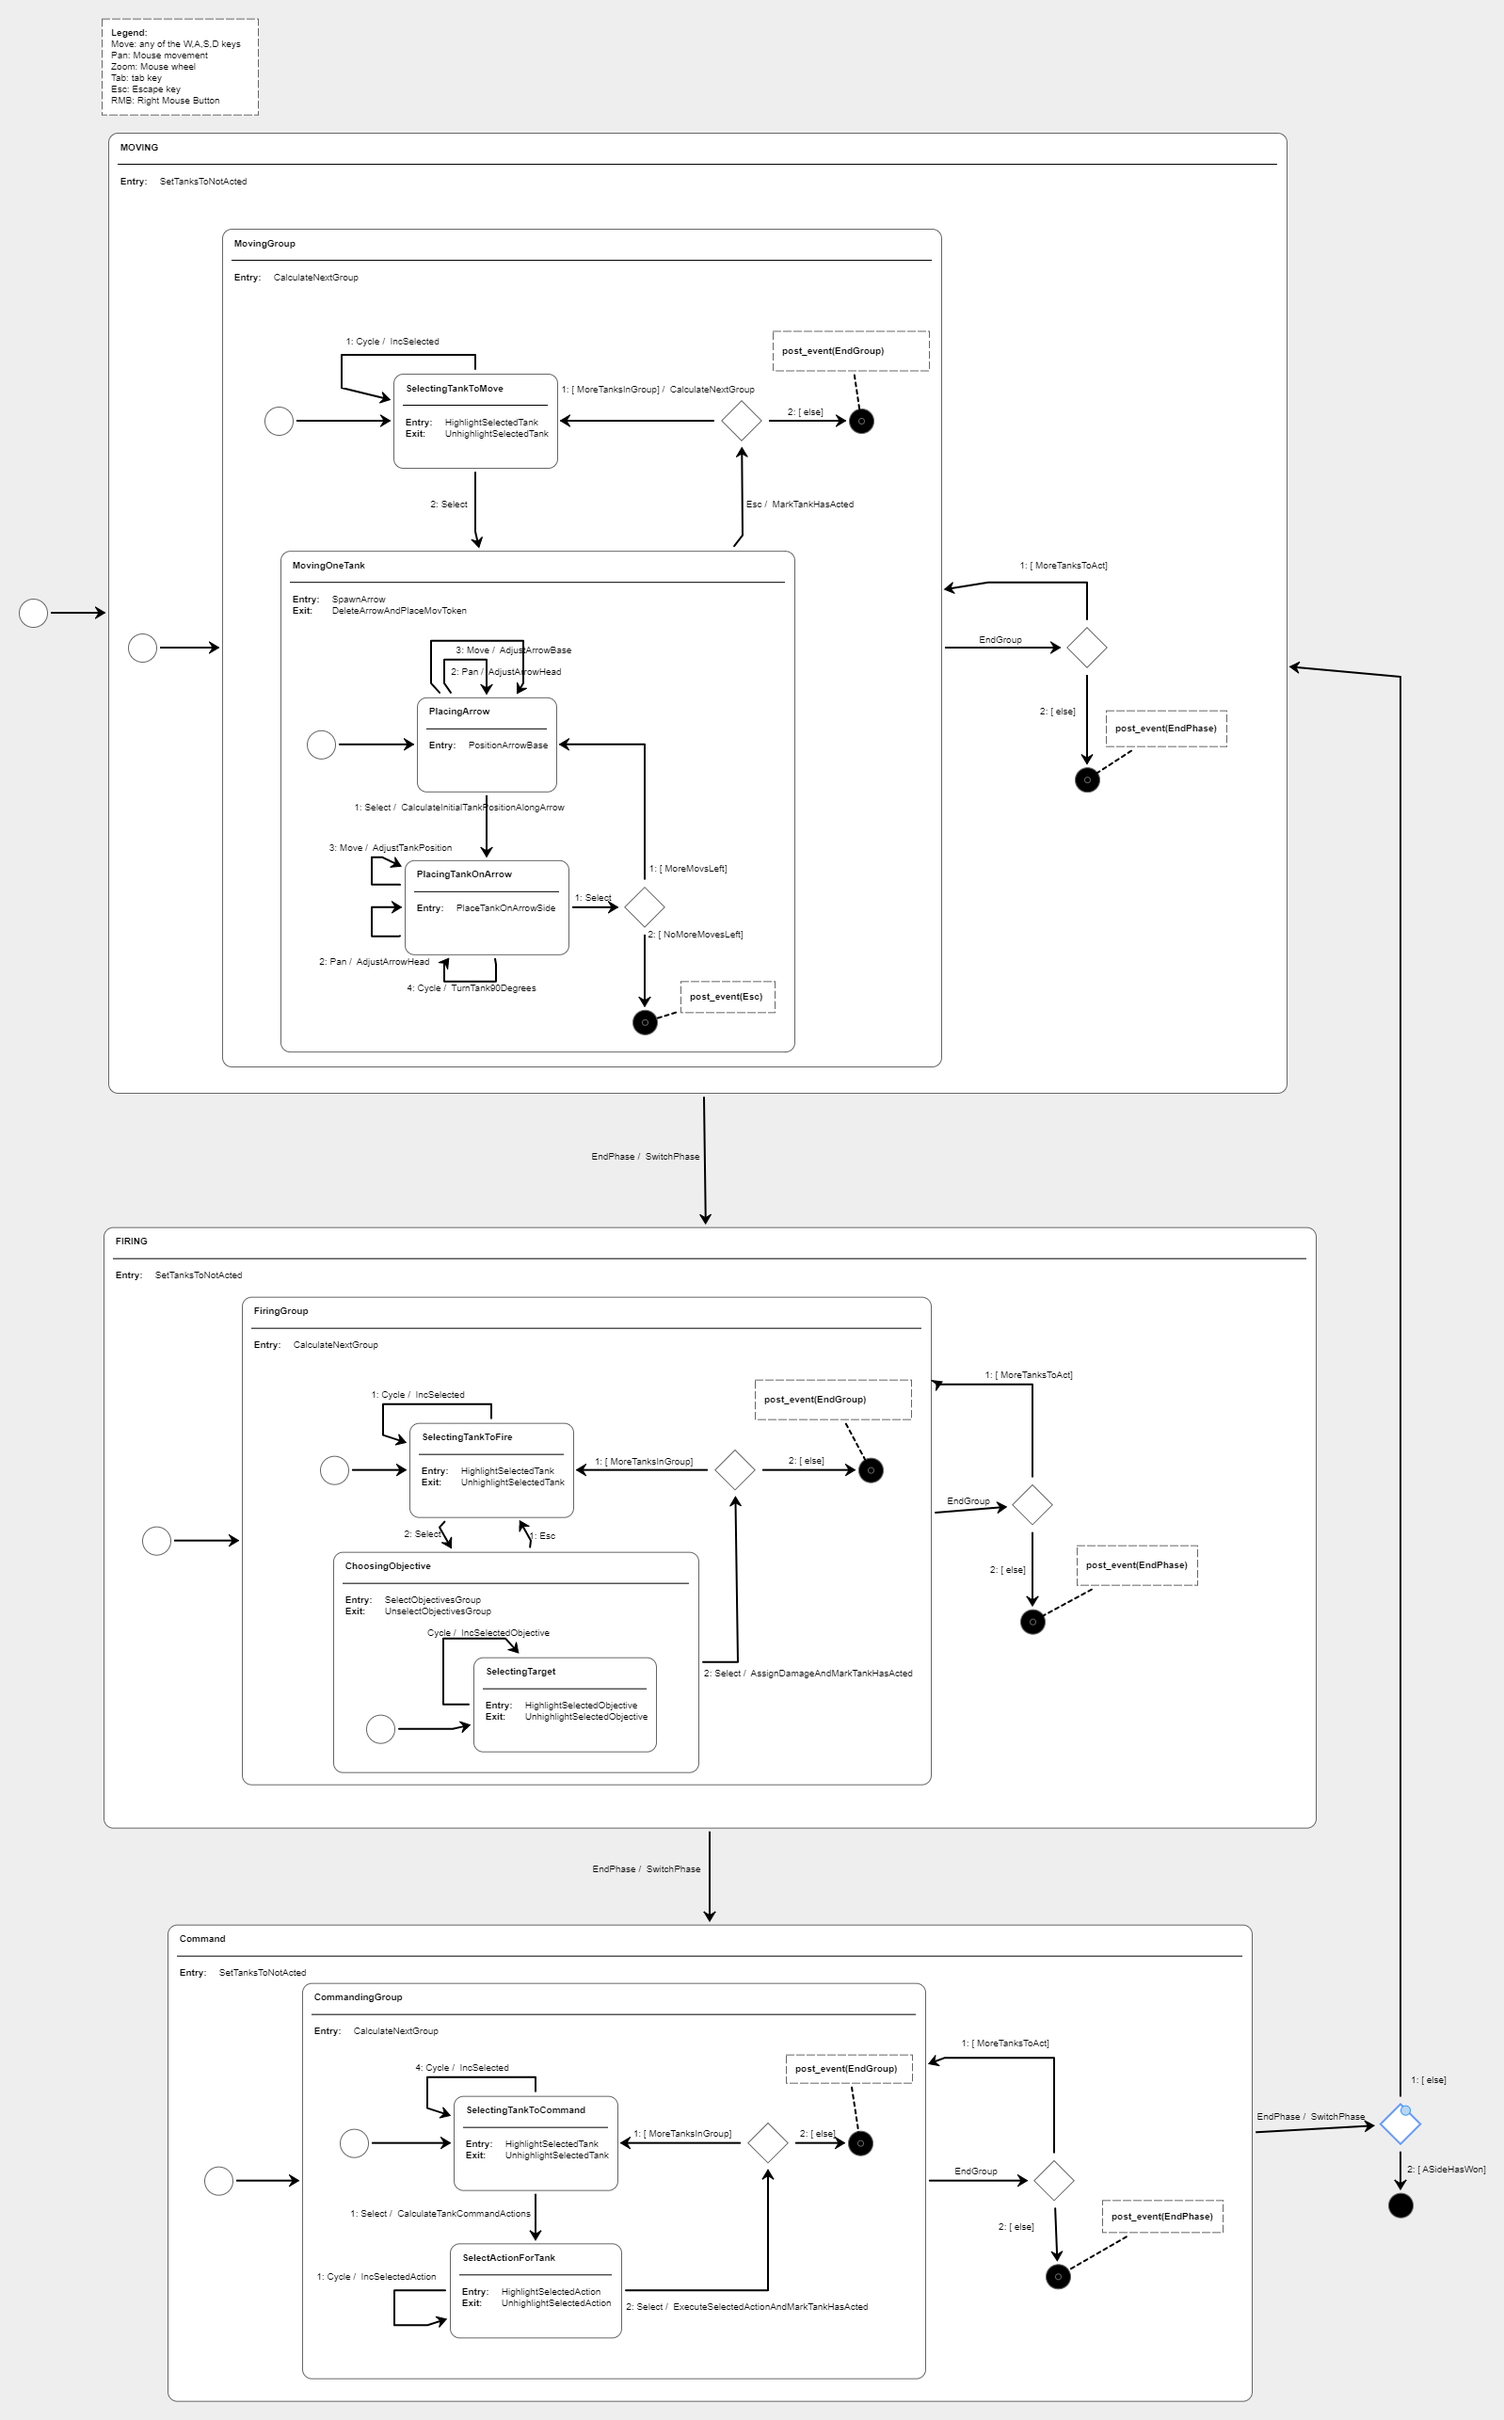
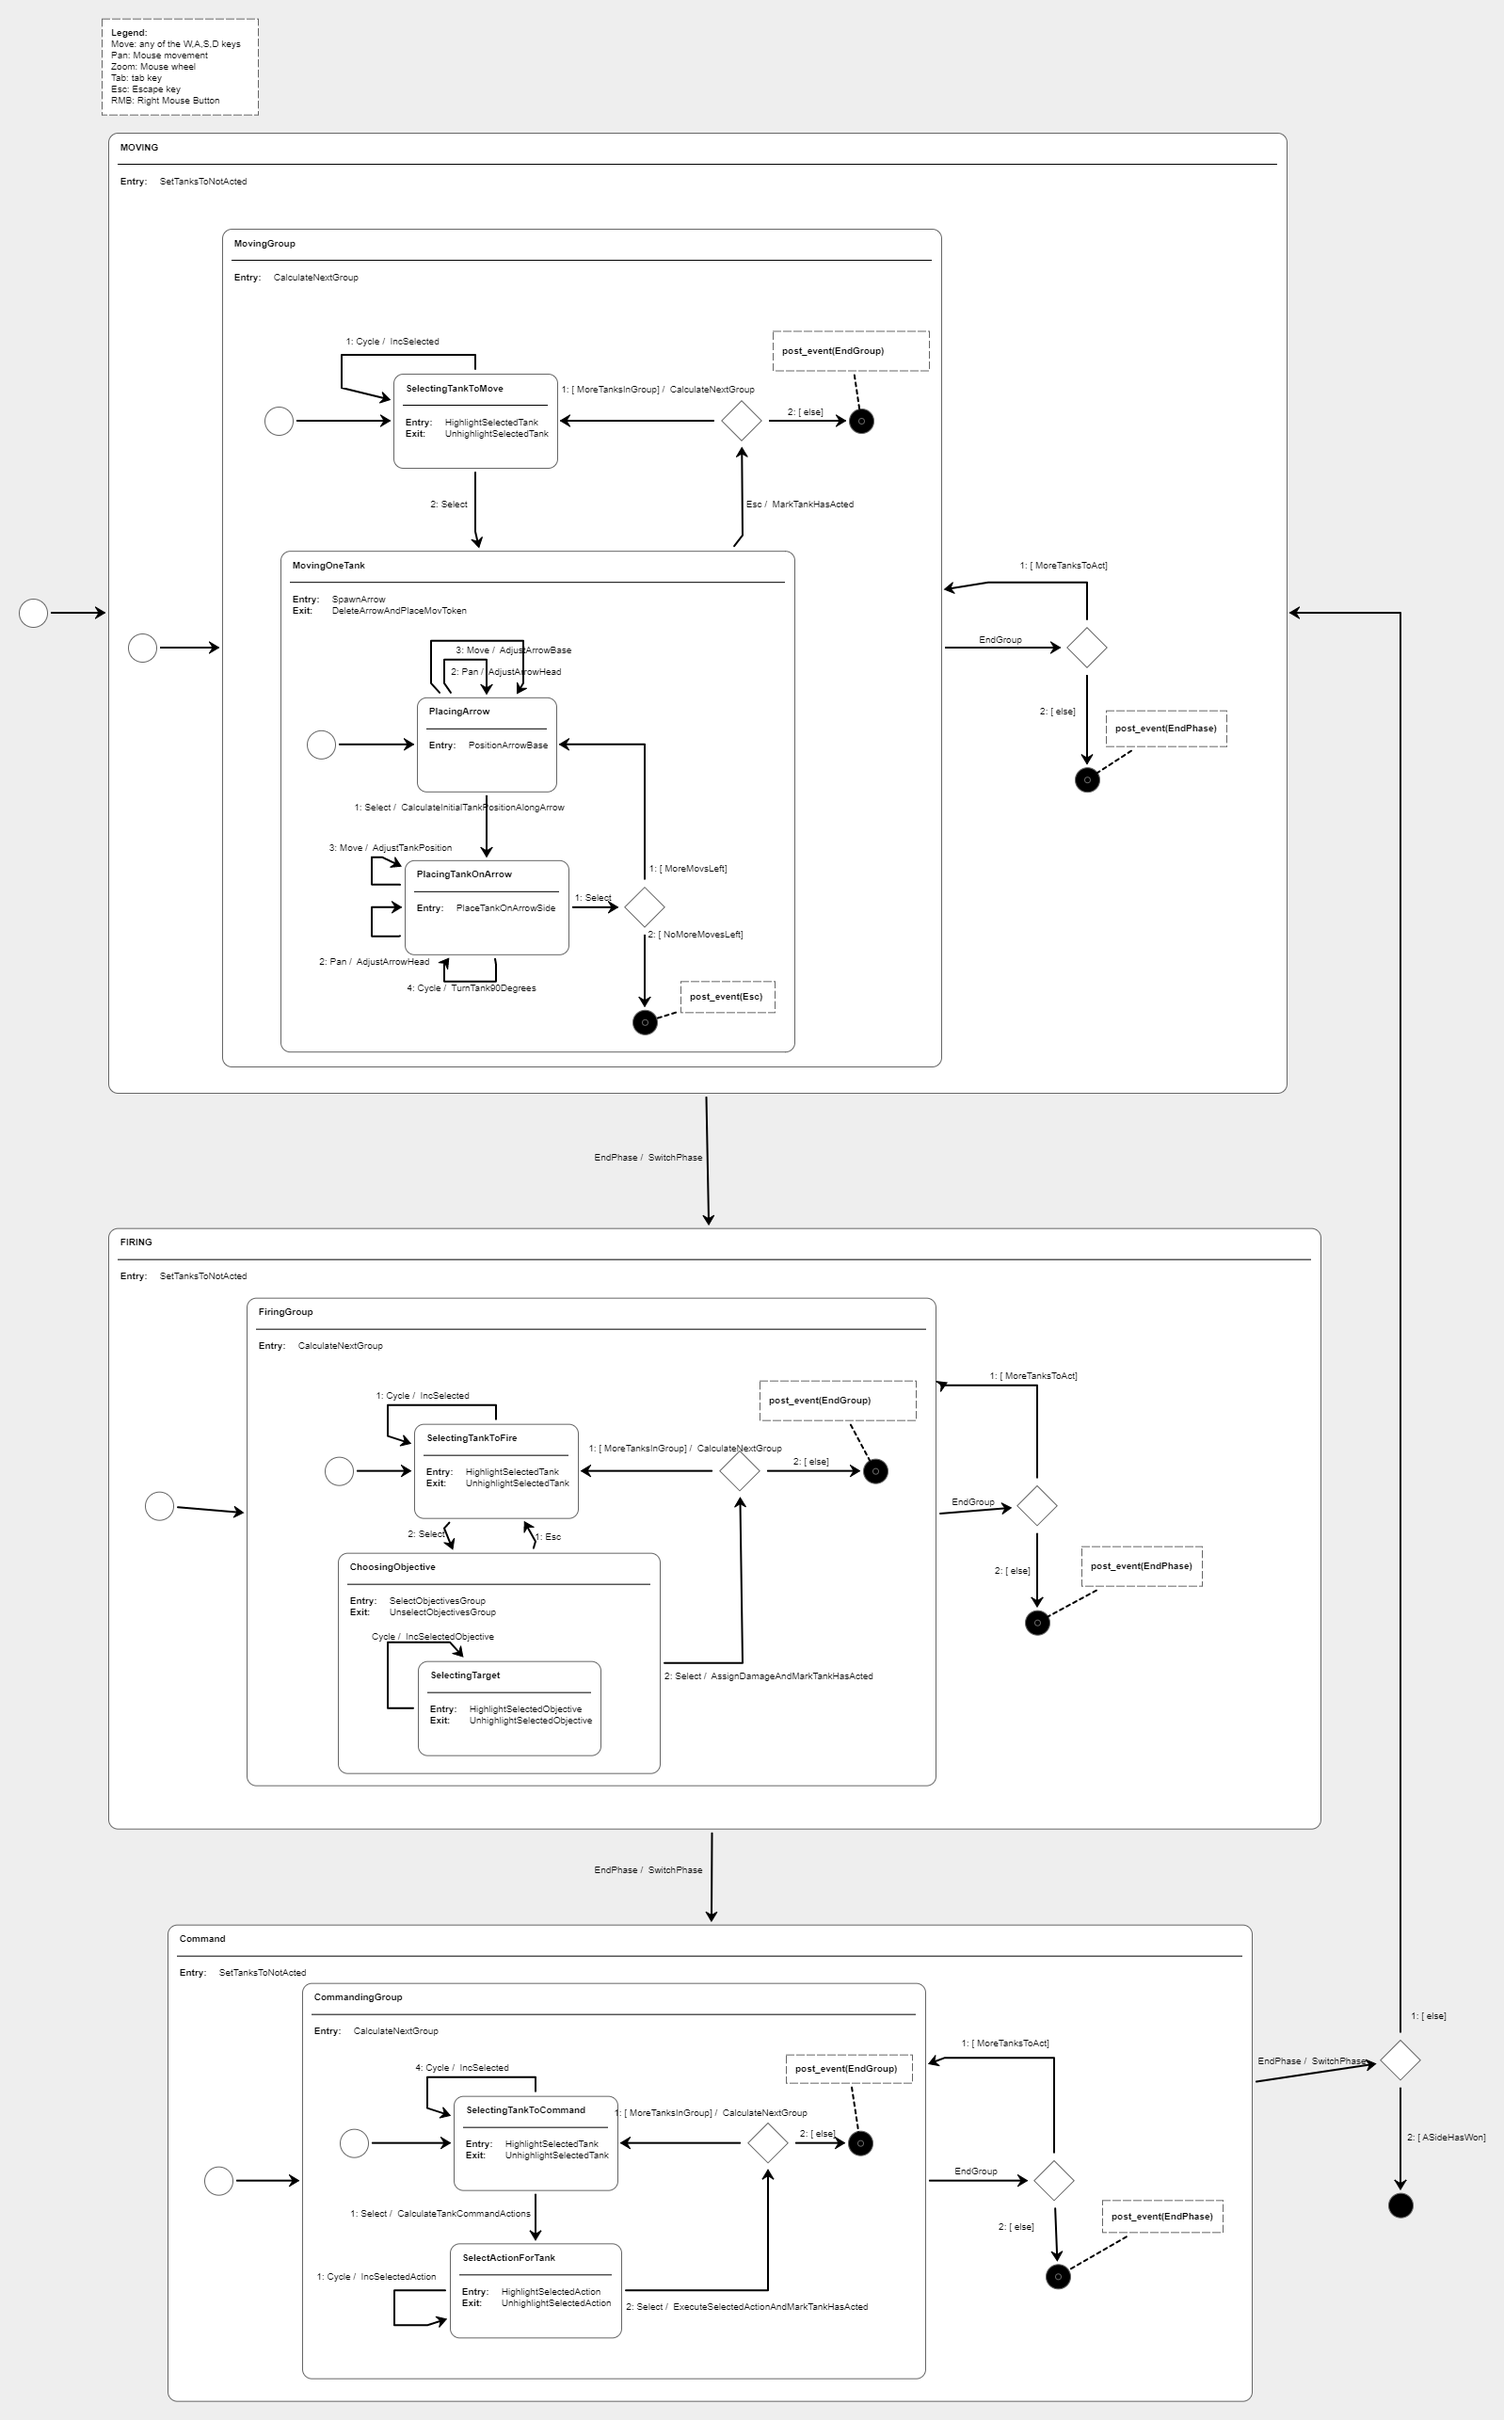
Phiring phase sketched

diff --git a/Tankz/Source/Tankz/TankzGameModeBase.cpp b/Tankz/Source/Tankz/TankzGameModeBase.cpp
@@ -356,7 +356,6 @@ bool ATankzGameModeBase::MoreTanksInGroup()
 
 void ATankzGameModeBase::MarkTankHasActed(const EvEsc&)
 {
-	UE_LOG(LogTemp, Log, TEXT("ATankzGameModeBase::MarkTankHasActed()"));
 	ActingTanks[SelectedTank]->hasActed = true;
 }
 
@@ -393,16 +392,26 @@ void ATankzGameModeBase::SwitchPhase(const EvEndPhase&ev)
 void ATankzGameModeBase::SelectObjectivesGroup()
 {
 	UE_LOG(LogTemp, Log, TEXT("ATankzGameModeBase::SelectObjectivesGroup()"));
-	ObjectiveCrosshairs.clear();
-	SelectedObjectiveCrosshair = 0;
+	Objectives.clear();
+	SelectedObjective = 0;
 	if(!currentPlayerIsAttacker) {
 		for(auto a: GameState->Attackers) //TODO: check tank is visible
-			ObjectiveCrosshairs.push_back(SpawnCrossHair(a));
+			Objectives.push_back(std::make_pair(a, SpawnCrossHair(a)));
 	} else {
 		for(auto a: GameState->Defenders)
-			ObjectiveCrosshairs.push_back(SpawnCrossHair(a));
+			Objectives.push_back(std::make_pair(a, SpawnCrossHair(a)));
 	}
 }
+
+void ATankzGameModeBase::UnselectObjectivesGroup()
+{
+	UE_LOG(LogTemp, Log, TEXT("ATankzGameModeBase::UnselectObjectivesGroup()"));
+	for(auto &a: Objectives) {
+		a.second->Destroy();
+	}
+	Objectives.clear();
+}
+
 
 ACrosshairBase *ATankzGameModeBase::SpawnCrossHair(ATankBase *tank)
 {
@@ -414,48 +423,43 @@ ACrosshairBase *ATankzGameModeBase::SpawnCrossHair(ATankBase *tank)
 
 void ATankzGameModeBase::IncSelectedObjective(const EvCycle&ev)
 {
-	UE_LOG(LogTemp, Log, TEXT("ATankzGameModeBase::IncSelectedObjective()"));
-
 	if(ev.forward) {
-		++SelectedObjectiveCrosshair;
-		if(SelectedObjectiveCrosshair>=ObjectiveCrosshairs.size()) {
-			SelectedObjectiveCrosshair = 0;
+		++SelectedObjective;
+		if(SelectedObjective>=Objectives.size()) {
+			SelectedObjective = 0;
 		}
 	} else {
-		if(SelectedObjectiveCrosshair==0) {
-			SelectedObjectiveCrosshair = ObjectiveCrosshairs.size()-1;
+		if(SelectedObjective==0) {
+			SelectedObjective = Objectives.size()-1;
 		} else {
-				--SelectedObjectiveCrosshair;
+				--SelectedObjective;
 		}
 	}
 
 }
 void ATankzGameModeBase::HighlightSelectedObjective()
 {
-	if(terminating) return;
-	UE_LOG(LogTemp, Log, TEXT("ATankzGameModeBase::HighlightSelectedObjective()"));
-	ObjectiveCrosshairs[SelectedObjectiveCrosshair]->SetSelected(true);
+	if(terminating || Objectives.empty()) return;
+	Objectives[SelectedObjective].second->SetSelected(true);
 }
 void ATankzGameModeBase::UnhighlightSelectedObjective()
 {
-	if(terminating) return;
-	UE_LOG(LogTemp, Log, TEXT("ATankzGameModeBase::UnhighlightSelectedObjective()"));
-	ObjectiveCrosshairs[SelectedObjectiveCrosshair]->SetSelected(false);
+	if(terminating || Objectives.empty()) return;
+	Objectives[SelectedObjective].second->SetSelected(false);
+}
+
+void ATankzGameModeBase::AssignDamageAndMarkTankHasActed(const EvSelect&)
+{
+	UE_LOG(LogTemp, Log, TEXT("ATankzGameModeBase::AssignDamageAndMarkTankHasActed()"));
+	//TODO: assing damage!!!!
+
+	ActingTanks[SelectedTank]->hasActed = true;
 }
 
 //----------------------------------------------------------------------
 // FSM Functions TBD
 //----------------------------------------------------------------------
 
-void ATankzGameModeBase::UnselectObjectivesGroup()
-{
-	UE_LOG(LogTemp, Log, TEXT("ATankzGameModeBase::UnselectObjectivesGroup()"));
-}
-
-void ATankzGameModeBase::AssignDamageAndMarkTankHasActed(const EvSelect&)
-{
-	UE_LOG(LogTemp, Log, TEXT("ATankzGameModeBase::AssignDamageAndMarkTankHasActed()"));
-}
 void ATankzGameModeBase::CalculateTankCommandActions(const EvSelect&)
 {
 	UE_LOG(LogTemp, Log, TEXT("ATankzGameModeBase::CalculateTankCommandActions()"));

diff --git a/Tankz/Source/Tankz/TankzGameModeBase.h b/Tankz/Source/Tankz/TankzGameModeBase.h
@@ -56,8 +56,9 @@ private:
 	/*
 	 * This will hold the group of crosshairs (placed atop tanks) that the selected tank can fire to
 	*/
-	std::vector<ACrosshairBase*> ObjectiveCrosshairs;
-	std::vector<ACrosshairBase*>::size_type SelectedObjectiveCrosshair;
+	using ObjectivesContainer_t = std::vector<std::pair<ATankBase*,ACrosshairBase*>>;
+	ObjectivesContainer_t Objectives;
+	ObjectivesContainer_t::size_type SelectedObjective;
 	ACrosshairBase *SpawnCrossHair(ATankBase *tank);
 	TSubclassOf<ACrosshairBase> CrosshairType;
 

diff --git a/Tankz/Source/Tankz/FSM/States.h b/Tankz/Source/Tankz/FSM/States.h
@@ -292,8 +292,10 @@ struct ChoosingObjectiveState: public sc::state<ChoosingObjectiveState, FiringGr
 	sc::result react(const EvSelect&evSelect) {
 		context<GameModeStateMachine>().AssignDamageAndMarkTankHasActed(evSelect);
 		bool moreTanksInGroup = context<GameModeStateMachine>().MoreTanksInGroup();
-		if(moreTanksInGroup)
+		if(moreTanksInGroup) {
+			context<GameModeStateMachine>().CalculateNextGroup();
 			return transit<SelectingTankToFireState>();
+		}
 		post_event( EvEndGroup() );
 		return discard_event();
 	}
